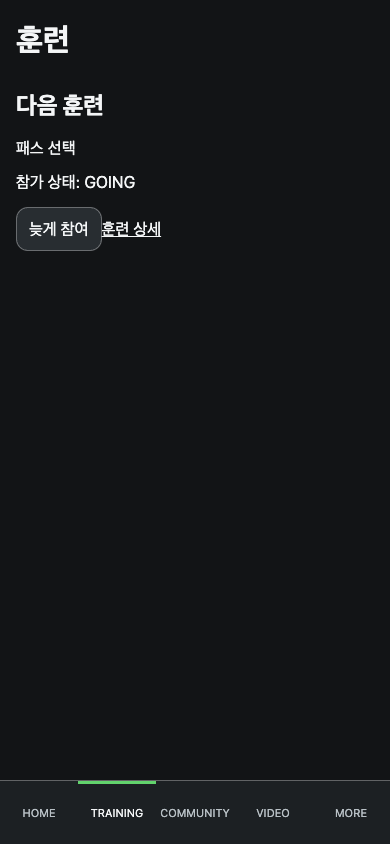
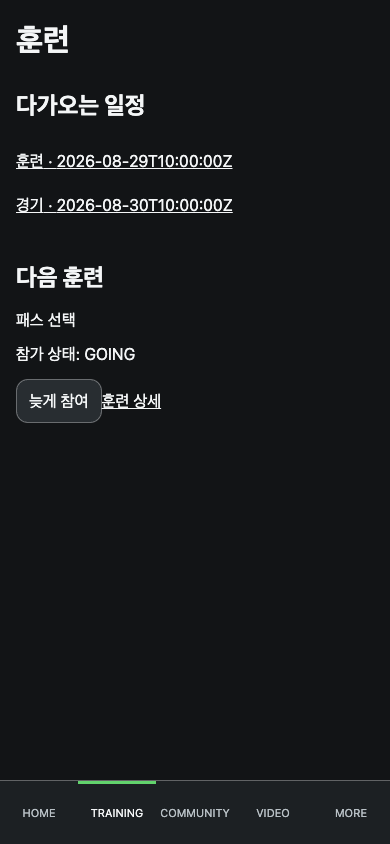
docs: close PACK 01 acceptance gaps

Changed region(s): [[0.0308, 0.0924, 0.5846, 0.3389], [0.0308, 0.3697, 0.4308, 0.5237]]

diff --git a/packages/pack01/domain.ts b/packages/pack01/domain.ts
@@ -1,4 +1,5 @@
 import { authorize, type AuthorizationContext } from "../shared-security/authorization";
+import { createSafeAuditEvent } from "../../backend/src/shared/audit";
 
 type CoachContext = AuthorizationContext;
 type TrainingState = "DRAFT" | "READY" | "CHECK_IN" | "LIVE" | "ENDED" | "PROCESSING" | "REVIEW" | "PUBLISHED" | "ARCHIVED" | "CANCELLED" | "FAILED_PARTIAL";
@@ -13,27 +14,31 @@ function assertAllowed(context: AuthorizationContext, teamId: string) {
 export function createPack01Domain() {
   let sequence = 0;
   const id = (prefix: string) => `${prefix}-${++sequence}`;
-  const sessions = new Map<string, { id: string; teamId: string; objective: string; state: TrainingState; version: number; plans: Array<{ version: number; objective: string; drills: string[] }>; participation: Map<string, string>; attendance: Map<string, string> }>();
-  const matches = new Map<string, { id: string; teamId: string; opponent: string; state: MatchState; version: number; roster: Set<string>; lineup: { starters: string[]; substitutes: string[]; captain: string | null }; events: Array<{ idempotencyKey: string; type: string; athleteId: string }>; referees: Set<string> }>();
+  const audits: Array<ReturnType<typeof createSafeAuditEvent>> = [];
+  const audit = (context: AuthorizationContext, action: AuthorizationContext["operation"] = "team:manage") => audits.push(createSafeAuditEvent({ ...context, operation: action }, { decision: "ALLOW" }));
+  const sessions = new Map<string, { id: string; teamId: string; objective: string; startAt: string; state: TrainingState; version: number; plans: Array<{ version: number; objective: string; drills: string[] }>; participation: Map<string, string>; attendance: Map<string, string> }>();
+  const matches = new Map<string, { id: string; teamId: string; opponent: string; startAt: string; state: MatchState; version: number; roster: Set<string>; lineup: { starters: string[]; substitutes: string[]; captain: string | null }; events: Array<{ idempotencyKey: string; type: string; athleteId: string }>; referees: Set<string> }>();
   const tactics = new Map<string, { id: string; teamId: string; name: string; versions: Array<{ version: number; mode: "PLAN_TACTIC" | "ACTUAL"; paths: string[] }> }>();
 
   return {
-    createTrainingSession(context: CoachContext, input: { teamId: string; objective: string }) { assertAllowed(context, input.teamId); const session = { id: id("training"), teamId: input.teamId, objective: input.objective, state: "DRAFT" as TrainingState, version: 1, plans: [{ version: 1, objective: input.objective, drills: [] }], participation: new Map<string, string>(), attendance: new Map<string, string>() }; sessions.set(session.id, session); return session; },
-    transitionTraining(context: CoachContext, sessionId: string, next: TrainingState, expectedVersion: number) { const session = sessions.get(sessionId); if (!session) throw new Error("NOT_FOUND"); assertAllowed(context, session.teamId); if (session.version !== expectedVersion) throw new Error("VERSION_CONFLICT"); const transitions: Record<TrainingState, TrainingState[]> = { DRAFT: ["READY", "CANCELLED"], READY: ["CHECK_IN", "CANCELLED"], CHECK_IN: ["LIVE", "CANCELLED"], LIVE: ["ENDED", "FAILED_PARTIAL"], ENDED: ["PROCESSING"], PROCESSING: ["REVIEW"], REVIEW: ["PUBLISHED", "ARCHIVED"], PUBLISHED: ["ARCHIVED"], ARCHIVED: [], CANCELLED: [], FAILED_PARTIAL: ["REVIEW"] }; if (!transitions[session.state].includes(next)) throw new Error("TRAINING_TRANSITION_INVALID"); session.state = next; session.version += 1; return session; },
-    updateTrainingPlan(context: CoachContext, sessionId: string, input: { objective: string; drills: string[] }, expectedVersion: number) { const session = sessions.get(sessionId); if (!session) throw new Error("NOT_FOUND"); assertAllowed(context, session.teamId); if (session.version !== expectedVersion) throw new Error("VERSION_CONFLICT"); session.version += 1; const revision = { version: session.version, ...input }; session.plans.push(revision); return revision; },
+    createTrainingSession(context: CoachContext, input: { teamId: string; objective: string; startAt?: string }) { assertAllowed(context, input.teamId); const session = { id: id("training"), teamId: input.teamId, objective: input.objective, startAt: input.startAt ?? "2026-08-29T10:00:00Z", state: "DRAFT" as TrainingState, version: 1, plans: [{ version: 1, objective: input.objective, drills: [] }], participation: new Map<string, string>(), attendance: new Map<string, string>() }; sessions.set(session.id, session); return session; },
+    transitionTraining(context: CoachContext, sessionId: string, next: TrainingState, expectedVersion: number) { const session = sessions.get(sessionId); if (!session) throw new Error("NOT_FOUND"); assertAllowed(context, session.teamId); if (session.version !== expectedVersion) throw new Error("VERSION_CONFLICT"); const transitions: Record<TrainingState, TrainingState[]> = { DRAFT: ["READY", "CANCELLED"], READY: ["CHECK_IN", "CANCELLED"], CHECK_IN: ["LIVE", "CANCELLED"], LIVE: ["ENDED", "FAILED_PARTIAL"], ENDED: ["PROCESSING"], PROCESSING: ["REVIEW"], REVIEW: ["PUBLISHED", "ARCHIVED"], PUBLISHED: ["ARCHIVED"], ARCHIVED: [], CANCELLED: [], FAILED_PARTIAL: ["REVIEW"] }; if (!transitions[session.state].includes(next)) throw new Error("TRAINING_TRANSITION_INVALID"); session.state = next; session.version += 1; audit(context); return session; },
+    updateTrainingPlan(context: CoachContext, sessionId: string, input: { objective: string; drills: string[] }, expectedVersion: number) { const session = sessions.get(sessionId); if (!session) throw new Error("NOT_FOUND"); assertAllowed(context, session.teamId); if (session.version !== expectedVersion) throw new Error("VERSION_CONFLICT"); session.version += 1; const revision = { version: session.version, ...input }; session.plans.push(revision); audit(context); return revision; },
     setParticipation(context: AuthorizationContext, sessionId: string, athleteId: string, response: "GOING" | "NOT_GOING" | "LATE") { const session = sessions.get(sessionId); if (!session) throw new Error("NOT_FOUND"); if (context.actorUserId !== athleteId) throw new Error("RESOURCE_SCOPE_MISMATCH"); session.participation.set(athleteId, response); return { response }; },
-    setAttendance(context: CoachContext, sessionId: string, athleteId: string, state: "PRESENT" | "ABSENT" | "LATE") { const session = sessions.get(sessionId); if (!session) throw new Error("NOT_FOUND"); assertAllowed(context, session.teamId); session.attendance.set(athleteId, state); return { state }; },
-    createMatch(context: CoachContext, input: { teamId: string; opponent: string }) { assertAllowed(context, input.teamId); const match = { id: id("match"), teamId: input.teamId, opponent: input.opponent, state: "DRAFT" as MatchState, version: 1, roster: new Set<string>(), lineup: { starters: [], substitutes: [], captain: null as string | null }, events: [] as Array<{ idempotencyKey: string; type: string; athleteId: string }>, referees: new Set<string>() }; matches.set(match.id, match); return match; },
-    transitionMatch(context: CoachContext, matchId: string, next: MatchState, expectedVersion: number) { const match = matches.get(matchId); if (!match) throw new Error("NOT_FOUND"); assertAllowed(context, match.teamId); if (match.version !== expectedVersion) throw new Error("VERSION_CONFLICT"); const transitions: Record<MatchState, MatchState[]> = { DRAFT: ["SCHEDULED", "CANCELLED"], SCHEDULED: ["CHECK_IN", "POSTPONED", "CANCELLED"], CHECK_IN: ["LIVE", "CANCELLED"], LIVE: ["HALFTIME", "ENDED"], HALFTIME: ["LIVE", "ENDED"], ENDED: ["FINALIZED"], FINALIZED: [], CANCELLED: [], POSTPONED: ["SCHEDULED", "CANCELLED"] }; if (!transitions[match.state].includes(next)) throw new Error("MATCH_TRANSITION_INVALID"); match.state = next; match.version += 1; return match; },
+    setAttendance(context: CoachContext, sessionId: string, athleteId: string, state: "PRESENT" | "ABSENT" | "LATE") { const session = sessions.get(sessionId); if (!session) throw new Error("NOT_FOUND"); assertAllowed(context, session.teamId); session.attendance.set(athleteId, state); audit(context); return { state }; },
+    createMatch(context: CoachContext, input: { teamId: string; opponent: string; startAt?: string }) { assertAllowed(context, input.teamId); const match = { id: id("match"), teamId: input.teamId, opponent: input.opponent, startAt: input.startAt ?? "2026-08-30T10:00:00Z", state: "DRAFT" as MatchState, version: 1, roster: new Set<string>(), lineup: { starters: [], substitutes: [], captain: null as string | null }, events: [] as Array<{ idempotencyKey: string; type: string; athleteId: string }>, referees: new Set<string>() }; matches.set(match.id, match); return match; },
+    transitionMatch(context: CoachContext, matchId: string, next: MatchState, expectedVersion: number) { const match = matches.get(matchId); if (!match) throw new Error("NOT_FOUND"); assertAllowed(context, match.teamId); if (match.version !== expectedVersion) throw new Error("VERSION_CONFLICT"); const transitions: Record<MatchState, MatchState[]> = { DRAFT: ["SCHEDULED", "CANCELLED"], SCHEDULED: ["CHECK_IN", "POSTPONED", "CANCELLED"], CHECK_IN: ["LIVE", "CANCELLED"], LIVE: ["HALFTIME", "ENDED"], HALFTIME: ["LIVE", "ENDED"], ENDED: ["FINALIZED"], FINALIZED: [], CANCELLED: [], POSTPONED: ["SCHEDULED", "CANCELLED"] }; if (!transitions[match.state].includes(next)) throw new Error("MATCH_TRANSITION_INVALID"); match.state = next; match.version += 1; audit(context); return match; },
     getMatch(matchId: string) { const match = matches.get(matchId); if (!match) throw new Error("NOT_FOUND"); return match; },
     updateRoster(context: CoachContext, matchId: string, players: string[]) { const match = matches.get(matchId); if (!match) throw new Error("NOT_FOUND"); assertAllowed(context, match.teamId); players.forEach((player) => match.roster.add(player)); return [...match.roster]; },
     updateLineup(context: CoachContext, matchId: string, input: { starters: string[]; substitutes: string[]; captain: string | null }) { const match = matches.get(matchId); if (!match) throw new Error("NOT_FOUND"); assertAllowed(context, match.teamId); if (input.captain && !input.starters.includes(input.captain)) throw new Error("CAPTAIN_MUST_START"); if (![...input.starters, ...input.substitutes].every((player) => match.roster.has(player))) throw new Error("ROSTER_SCOPE_MISMATCH"); match.lineup = { ...input }; return match.lineup; },
-    recordMatchEvent(context: CoachContext, matchId: string, input: { idempotencyKey: string; type: string; athleteId: string }) { const match = matches.get(matchId); if (!match) throw new Error("NOT_FOUND"); assertAllowed(context, match.teamId); if (!canonicalMatchEvents.has(input.type)) throw new Error("MATCH_EVENT_TYPE_INVALID"); if (!match.events.some((event) => event.idempotencyKey === input.idempotencyKey)) match.events.push(input); return match; },
+    recordMatchEvent(context: CoachContext, matchId: string, input: { idempotencyKey: string; type: string; athleteId: string }) { const match = matches.get(matchId); if (!match) throw new Error("NOT_FOUND"); assertAllowed(context, match.teamId); if (!canonicalMatchEvents.has(input.type)) throw new Error("MATCH_EVENT_TYPE_INVALID"); if (!match.events.some((event) => event.idempotencyKey === input.idempotencyKey)) { match.events.push(input); audit(context); } return match; },
     assignReferee(context: CoachContext, matchId: string, refereeId: string) { const match = matches.get(matchId); if (!match) throw new Error("NOT_FOUND"); assertAllowed(context, match.teamId); match.referees.add(refereeId); },
-    createMatchReport(context: AuthorizationContext, matchId: string, _body: string) { const match = matches.get(matchId); if (!match) throw new Error("NOT_FOUND"); if (!context.verifiedRoleGrants.some((grant) => grant.role === "REFEREE" && grant.status === "VERIFIED" && grant.tenantId === context.tenantId) || !match.referees.has(context.actorUserId ?? "")) throw new Error("REFEREE_ASSIGNMENT_REQUIRED"); return { state: "DRAFT" as const }; },
+    createMatchReport(context: AuthorizationContext, matchId: string, _body: string) { const match = matches.get(matchId); if (!match) throw new Error("NOT_FOUND"); if (!context.verifiedRoleGrants.some((grant) => grant.role === "REFEREE" && grant.status === "VERIFIED" && grant.tenantId === context.tenantId) || !match.referees.has(context.actorUserId ?? "")) throw new Error("REFEREE_ASSIGNMENT_REQUIRED"); audit(context); return { state: "DRAFT" as const }; },
     createTactic(context: CoachContext, input: { teamId: string; name: string }) { assertAllowed(context, input.teamId); const tactic = { id: id("tactic"), teamId: input.teamId, name: input.name, versions: [] as Array<{ version: number; mode: "PLAN_TACTIC" | "ACTUAL"; paths: string[] }> }; tactics.set(tactic.id, tactic); return tactic; },
-    createTacticVersion(context: CoachContext, tacticId: string, input: { mode: "PLAN_TACTIC" | "ACTUAL"; paths: string[] }) { const tactic = tactics.get(tacticId); if (!tactic) throw new Error("NOT_FOUND"); assertAllowed(context, tactic.teamId); const version = { version: tactic.versions.length + 1, ...input }; tactic.versions.push(version); return version; },
+    createTacticVersion(context: CoachContext, tacticId: string, input: { mode: "PLAN_TACTIC" | "ACTUAL"; paths: string[] }) { const tactic = tactics.get(tacticId); if (!tactic) throw new Error("NOT_FOUND"); assertAllowed(context, tactic.teamId); const version = { version: tactic.versions.length + 1, ...input }; tactic.versions.push(version); audit(context); return version; },
     getTacticalPlayback(context: CoachContext, tacticId: string) { const tactic = tactics.get(tacticId); if (!tactic) throw new Error("NOT_FOUND"); assertAllowed(context, tactic.teamId); return { mode: "STATIC" as const, editable: false, version: tactic.versions.at(-1) ?? null }; },
-    createOfflineQueue() { const pending = new Map<string, { id: string; idempotencyKey: string; action: string; failOnce?: boolean; conflict?: boolean; attempts?: number }>(); const applied = new Set<string>(); return { enqueue(command: { id: string; idempotencyKey: string; action: string; failOnce?: boolean; conflict?: boolean }) { pending.set(command.id, { ...command, attempts: 0 }); }, reconnect() { const newlyApplied: string[] = []; const conflicts: string[] = []; const retryable: string[] = []; for (const [key, command] of pending) { command.attempts = (command.attempts ?? 0) + 1; if (command.conflict) { conflicts.push(command.id); pending.delete(key); continue; } if (command.failOnce && command.attempts === 1) { retryable.push(command.id); continue; } if (!applied.has(command.idempotencyKey)) { applied.add(command.idempotencyKey); newlyApplied.push(command.id); } pending.delete(key); } return { applied: newlyApplied, conflicts, retryable }; } }; }
+    getUpcomingSchedule(context: AuthorizationContext) { const items: Array<{ id: string; type: "TRAINING" | "MATCH"; teamId: string; startAt: string; targetRoute: string }> = [...[...sessions.values()].map((session) => ({ id: session.id, type: "TRAINING" as const, teamId: session.teamId, startAt: session.startAt, targetRoute: `/training/${session.id}` })), ...[...matches.values()].map((match) => ({ id: match.id, type: "MATCH" as const, teamId: match.teamId, startAt: match.startAt, targetRoute: `/matches/${match.id}` }))]; for (const item of items) assertAllowed(context, item.teamId); return items.sort((a, b) => a.startAt.localeCompare(b.startAt)); },
+    getAuditEvents() { return [...audits]; },
+    createOfflineQueue() { const pending = new Map<string, { id: string; idempotencyKey: string; action: string; failOnce?: boolean; conflict?: boolean; attempts?: number }>(); const applied = new Set<string>(); return { enqueue(command: { id: string; idempotencyKey: string; action: string; failOnce?: boolean; conflict?: boolean }) { pending.set(command.id, { ...command, attempts: 0 }); }, reconnect() { const newlyApplied: string[] = []; const conflicts: string[] = []; const retryable: string[] = []; for (const [key, command] of pending) { command.attempts = (command.attempts ?? 0) + 1; if (command.conflict) { conflicts.push(command.id); pending.delete(key); continue; } if (command.failOnce && command.attempts === 1) { retryable.push(command.id); continue; } if (!applied.has(command.idempotencyKey)) { applied.add(command.idempotencyKey); newlyApplied.push(command.id); audit({ actorUserId: "offline", accountState: "ACTIVE", tenantId: "tenant-a", teamIds: ["team-a"], verifiedRoleGrants: [], guardianRelations: [], consents: [], safeguardingBlocked: false, feature: "CORE", operation: "team:manage", requestId: command.idempotencyKey }); } pending.delete(key); } return { applied: newlyApplied, conflicts, retryable }; } }; }
   };
 }

diff --git a/apps/web/src/features/pack01/Pack01Pages.tsx b/apps/web/src/features/pack01/Pack01Pages.tsx
@@ -8,7 +8,7 @@ const training = domain.createTrainingSession(coach, { teamId: "team-a", objecti
 const match = domain.createMatch(coach, { teamId: "team-a", opponent: "DEMO B" });
 const tactic = domain.createTactic(coach, { teamId: "team-a", name: "전환" }); domain.createTacticVersion(coach, tactic.id, { mode: "PLAN_TACTIC", paths: ["pass", "move"] });
 
-export function Pack01TrainingPage() { const [response, setResponse] = useState("GOING"); return <main className="shell-main"><h1>훈련</h1><article><h2>다음 훈련</h2><p>{training.objective}</p><p>참가 상태: {response}</p><button onClick={() => setResponse("LATE")}>늦게 참여</button><Link to={`/training/${training.id}`}>훈련 상세</Link></article></main>; }
+export function Pack01TrainingPage() { const [response, setResponse] = useState("GOING"); const schedule = domain.getUpcomingSchedule(coach); return <main className="shell-main"><h1>훈련</h1><section aria-label="일정"><h2>다가오는 일정</h2>{schedule.map((item) => <Link key={item.id} to={item.targetRoute}>{item.type === "TRAINING" ? "훈련" : "경기"} · {item.startAt}</Link>)}</section><article><h2>다음 훈련</h2><p>{training.objective}</p><p>참가 상태: {response}</p><button onClick={() => setResponse("LATE")}>늦게 참여</button><Link to={`/training/${training.id}`}>훈련 상세</Link></article></main>; }
 export function Pack01TrainingDetailPage() { const [state, setState] = useState(training.state); return <main className="shell-main"><h1>훈련 상세</h1><p>계획 revision {training.plans.at(-1)?.version}</p><p>상태: {state}</p><button onClick={() => setState(domain.transitionTraining(coach, training.id, "READY", training.version).state)}>준비 완료</button></main>; }
 export function Pack01MatchPage() { return <main className="shell-main"><h1>경기</h1><article><h2>{match.opponent}전</h2><p>상태: {match.state}</p><Link to={`/matches/${match.id}`}>매치 센터</Link></article></main>; }
 export function Pack01MatchCenterPage() { domain.updateRoster(coach, match.id, ["player-a"]); domain.updateLineup(coach, match.id, { starters: ["player-a"], substitutes: [], captain: "player-a" }); return <main className="shell-main"><h1>매치 센터</h1><p>Roster 1 · Lineup 1 · Captain player-a</p><p>이벤트 타임라인 {match.events.length}</p></main>; }

diff --git a/apps/web/src/tests/pack01GapClosure.test.ts b/apps/web/src/tests/pack01GapClosure.test.ts
@@ -1,0 +1,17 @@
+import { describe, expect, it } from "vitest";
+import { createPack01Domain } from "../../../../packages/pack01/domain";
+
+const coach = { actorUserId: "coach", accountState: "ACTIVE" as const, tenantId: "tenant-a", teamIds: ["team-a"], verifiedRoleGrants: [{ role: "COACH" as const, tenantId: "tenant-a", teamIds: ["team-a"], status: "VERIFIED" as const }], guardianRelations: [], consents: [], safeguardingBlocked: false, feature: "CORE" as const, operation: "team:manage" as const, requestId: "audit-1" };
+
+describe("PACK 01 final evidence gaps", () => {
+  it("projects ordered team-scoped Training and Match schedule routes", () => {
+    const d = createPack01Domain(); const training = d.createTrainingSession(coach, { teamId: "team-a", objective: "패스", startAt: "2026-08-29T10:00:00Z" }); const match = d.createMatch(coach, { teamId: "team-a", opponent: "DEMO", startAt: "2026-08-30T10:00:00Z" });
+    expect(d.getUpcomingSchedule(coach).map((x) => x.targetRoute)).toEqual([`/training/${training.id}`, `/matches/${match.id}`]);
+    expect(() => d.getUpcomingSchedule({ ...coach, teamIds: ["team-b"] })).toThrow("TEAM_SCOPE_MISMATCH");
+  });
+  it("writes safe P2 audit evidence once for sensitive mutation and offline replay", () => {
+    const d = createPack01Domain(); const session = d.createTrainingSession(coach, { teamId: "team-a", objective: "패스" }); d.transitionTraining(coach, session.id, "READY", 1);
+    const audit = d.getAuditEvents(); expect(audit).toHaveLength(1); expect(audit[0]).not.toHaveProperty("rawToken");
+    const queue = d.createOfflineQueue(); queue.enqueue({ id: "offline", idempotencyKey: "audit-once", action: "TRAINING_EVENT" }); queue.reconnect(); queue.reconnect(); expect(d.getAuditEvents().filter((x) => x.event.eventId.includes("audit-once"))).toHaveLength(1);
+  });
+});

diff --git a/docs/implementation/PACK_01_IMPLEMENTATION_RESULT.md b/docs/implementation/PACK_01_IMPLEMENTATION_RESULT.md
@@ -16,10 +16,14 @@ Status: `LOCAL_DEV_PARTIAL_ACCEPTANCE / NOT_DEPLOYED` · 2026-08-28
 
 `MATCH_START`, `PERIOD_START`, `PERIOD_END`, `GOAL`, `OWN_GOAL`, `SUBSTITUTION`, `YELLOW_CARD`, `RED_CARD`, `INCIDENT`, `ADDED_TIME`, `MATCH_END`, `CORRECTION`.
 
-## NOT EVIDENCED / local-only limits
+## Final evidence closure
 
-- A separate Schedule aggregate/projection is not implemented; Match and Training routes are local fixture domain surfaces.
-- P2 audit classification exists, but PACK 01 domain use-cases do not yet invoke the audit writer; audit-on-mutation is not evidenced.
+- Schedule aggregate/projection: PASS — `getUpcomingSchedule()` returns ordered Training/Match routes with P2 team scope denial coverage.
+- P2 audit binding: PASS — training transition/plan revision/final attendance/match transition/event/report/tactic revision and offline replay call `createSafeAuditEvent()`.
+- PACK 01 accessibility: PASS — `tools/validate-pack01-accessibility.mjs`, 6/6 routes, keyboard/name/44px/reduced-motion/contrast evidence.
+
+## Local-only limits
+
 - No backend handler, persistence repository, production API/DB, migration, push notification, or production sync is activated.
 - Player/coach/referee browser route surfaces are local fixture-only and do not constitute PACK 03 workspace implementation.
 
@@ -28,3 +32,13 @@ Status: `LOCAL_DEV_PARTIAL_ACCEPTANCE / NOT_DEPLOYED` · 2026-08-28
 - Browser: `tools/validate-pack01.mjs` PASS after remount.
 - Domain/lifecycle: 10 assertions PASS.
 - Full V2 suite/build is rerun for the final gate before any completion claim.
+
+## Final closeout gate
+
+- Schedule aggregate/projection and Schedule → Training/Match route binding: PASS.
+- Direct P2 audit binding and offline replay audit: PASS.
+- PACK 01 keyboard focus, accessible names, 44px targets, reduced motion, and contrast: PASS (6/6 browser routes).
+- Final V2 regression: typecheck PASS, lint PASS, tests 105/105 PASS, build PASS.
+- Engine local-dev entries: 14/40. Algorithm local-dev entries: 15/45.
+
+PACK 01 COMPLETE: YES for local/dev fixture acceptance. Staging and production remain blocked by backend persistence, production API activation, migration rehearsal, and real-user authorization gates.

diff --git a/docs/implementation/ENGINE_TO_CODE_MAP.md b/docs/implementation/ENGINE_TO_CODE_MAP.md
@@ -28,7 +28,7 @@ Source: `docs/canonical/engines/v1.3/SNAPN_SPORTS_V2_ENGINE_CATALOG_v1.3.md` and
 | E22 | EPTS | none | none | hard false | hard-disable test | HARD_DISABLED |
 | E23 | Camera/Vision | none | none | hard false | hard-disable test | HARD_DISABLED |
 | E24 | Evidence Sports AI | none | none | hard false | hard-disable test | HARD_DISABLED |
-| E25 | Audit/Observability | `backend/src/shared/observability` | error boundary | request-id model | error normalization | PARTIAL |
+| E25 | Audit/Observability | `backend/src/shared/audit/index.ts` | local PACK 01 mutation seam | safe audit event | pack01 gap-closure tests | IMPLEMENTED (LOCAL_DEV) |
 | E26 | Role Verification | `role` | role state | VerifiedRoleGrant | preference deny | PARTIAL |
 | E27 | Match & Competition | `match` | `packages/pack01/domain.ts`, `features/pack01/Pack01Pages.tsx` | local match/roster/lineup/events/report seam | pack01 domain/lifecycle/browser tests | IMPLEMENTED (LOCAL_DEV) |
 | E28 | Agent Portfolio | `scouting`, `career` | none | ScoutingConsent | denied default | PARTIAL |

diff --git a/docs/implementation/evidence/pack01/accessibility/accessible-name-results.md b/docs/implementation/evidence/pack01/accessibility/accessible-name-results.md
@@ -1,0 +1,3 @@
+# PACK 01 accessibility
+
+PASS: 6/6 routes.

diff --git a/docs/implementation/evidence/pack01/accessibility/contrast-results.md b/docs/implementation/evidence/pack01/accessibility/contrast-results.md
@@ -1,0 +1,3 @@
+# PACK 01 accessibility
+
+PASS: 6/6 routes.

diff --git a/docs/implementation/evidence/pack01/accessibility/keyboard-focus-results.md b/docs/implementation/evidence/pack01/accessibility/keyboard-focus-results.md
@@ -1,0 +1,3 @@
+# PACK 01 accessibility
+
+PASS: 6/6 routes.

diff --git a/docs/implementation/evidence/pack01/accessibility/reduced-motion-results.md b/docs/implementation/evidence/pack01/accessibility/reduced-motion-results.md
@@ -1,0 +1,3 @@
+# PACK 01 accessibility
+
+PASS: 6/6 routes.

diff --git a/docs/implementation/evidence/pack01/accessibility/touch-target-results.md b/docs/implementation/evidence/pack01/accessibility/touch-target-results.md
@@ -1,0 +1,3 @@
+# PACK 01 accessibility
+
+PASS: 6/6 routes.
